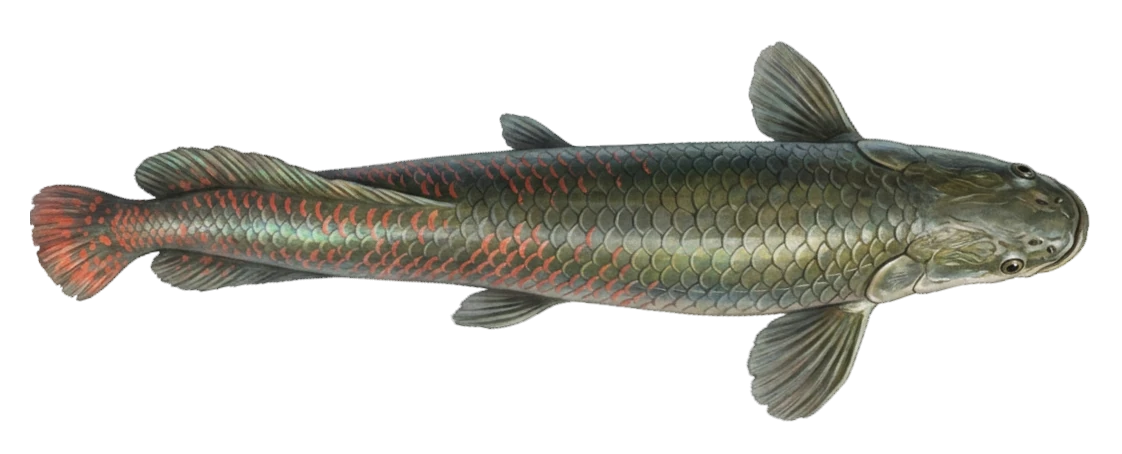
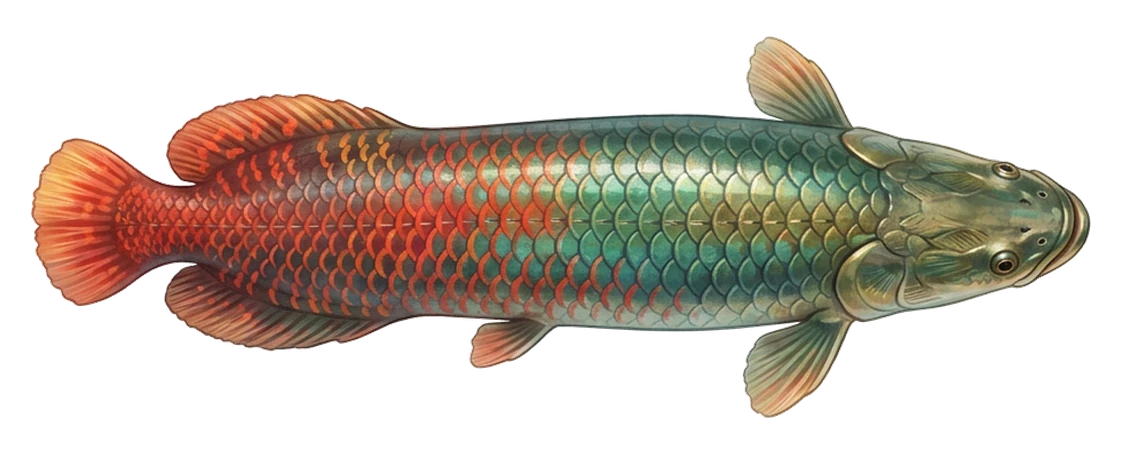
Pirarucu colorido: nova textura e peitorais ajustadas ao corpo mais largo
Claude-Session: https://claude.ai/code/session_01Bf8fkbopQyQXRG56jD3H4Y

diff --git a/src/lib/pirarucu-scene.ts b/src/lib/pirarucu-scene.ts
@@ -332,7 +332,7 @@ class Fish {
       const nx = -ty, ny = tx
       const u = 1 - i / NU
       const texX = u * TEX_W
-      // peitorais: zona ~730–870 px da textura
+      // peitorais: zona ~745–850 px da textura, saindo a ~110 px da espinha
       const pec = smooth(720, 760, texX) * (1 - smooth(830, 880, texX))
       for (let j = 0; j <= NV; j++) {
         const v = j / NV
@@ -340,7 +340,7 @@ class Fish {
         let x = C[i].x + nx * vpx * k
         let y = C[i].y + ny * vpx * k
         if (pec > 0) {
-          const f = smooth(80, 190, Math.abs(vpx)) * pec
+          const f = smooth(108, 175, Math.abs(vpx)) * pec
           const side = vpx > 0 ? 0 : 1.9
           const flap = Math.sin(this.finPhase + side) * 26 * k * f
           x += tx * flap
